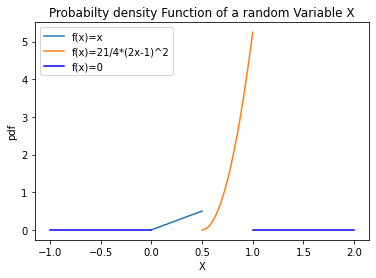
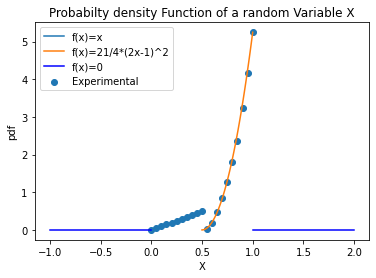
Assignment 5

diff --git a/Assignment_5/codes/experimental_verification_GATE_MA_2016_Q10.py b/Assignment_5/codes/experimental_verification_GATE_MA_2016_Q10.py
@@ -1,0 +1,74 @@
+# -*- coding: utf-8 -*-
+"""Assignment5.ipynb
+
+Automatically generated by Colaboratory.
+
+Original file is located at
+    https://colab.research.google.com/drive/1s8Hjdtzr3bXYiy6vM6J03A3oK7KLTIG0
+"""
+
+import matplotlib.pyplot as plt
+import numpy as np
+from scipy.stats import uniform
+
+sample_size=1000
+#uniform distribution between 0 and 1
+uniform_data= uniform.rvs(0,1,sample_size)
+
+n=20 #no of divisons of the interval 0 and 1
+linear_data=[]
+
+intervals=np.linspace(0,1,n+1)
+print(intervals)
+
+for x in intervals :
+  linear_data.append(np.size(np.nonzero(uniform_data<x)))
+
+#cdf of the distribution
+linear_data_nd=np.array(linear_data)
+
+#print(linear_data_nd)
+
+#linear density function values at some points
+experimental_linear_density_data=linear_data_nd/sample_size
+#quadratic density function values at some points
+experimental_quadratic_density_data=np.multiply(experimental_linear_density_data,experimental_linear_density_data)
+
+
+#required probability density function
+pdf_data=np.append(experimental_linear_density_data[0:(n//2)+1],            #f(x)=x 0<=x<0.5
+21*experimental_quadratic_density_data[(n//2)+1:n+1]-21*experimental_linear_density_data[(n//2)+1:n+1]+21/4)#f(x)=21/4*(2x-1)^2 0.5<=x<1
+
+#plt.scatter(intervals[0:(n//2)+1],experimental_linear_density_data[0:(n//2)+1])
+#plt.scatter(intervals[(n//2)+1:n+1],21*experimental_quadratic_density_data[(n//2)+1:n+1]-21*experimental_linear_density_data[(n//2)+1:n+1]+21/4)
+
+
+
+fig, ax = plt.subplots()
+#for f(x)=x  0<=x<0.5
+x1=np.linspace(0,0.5,100)
+plt.plot(x1,x1,label='f(x)=x')
+
+
+
+#for f(x)=21/4*(2x-1)^2  0.5<=x<1
+x2=np.linspace(0.5,1,100)
+plt.plot(x2,21/4*(2*x2-1)**2,label='f(x)=21/4*(2x-1)^2')
+
+#for f(x)=0 1<x
+x3=np.linspace(1,2,100)
+plt.plot(x3,0*x3,color='blue')
+
+#for f(x)=0 x<0
+x4=np.linspace(-1,0,100)
+plt.plot(x4,0*x4,color='blue',label='f(x)=0')
+
+#experimental plot
+plt.scatter(intervals,pdf_data,label="Experimental")
+
+ax.set_xlabel('X')
+ax.set_ylabel('pdf')
+ax.set_title('Probabilty density Function of a random Variable X')
+
+ax.legend()
+plt.show()
